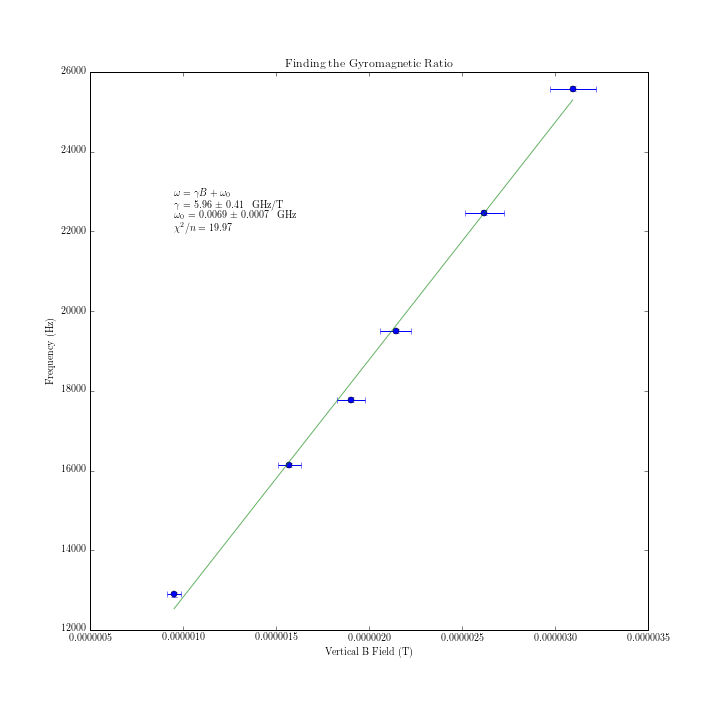
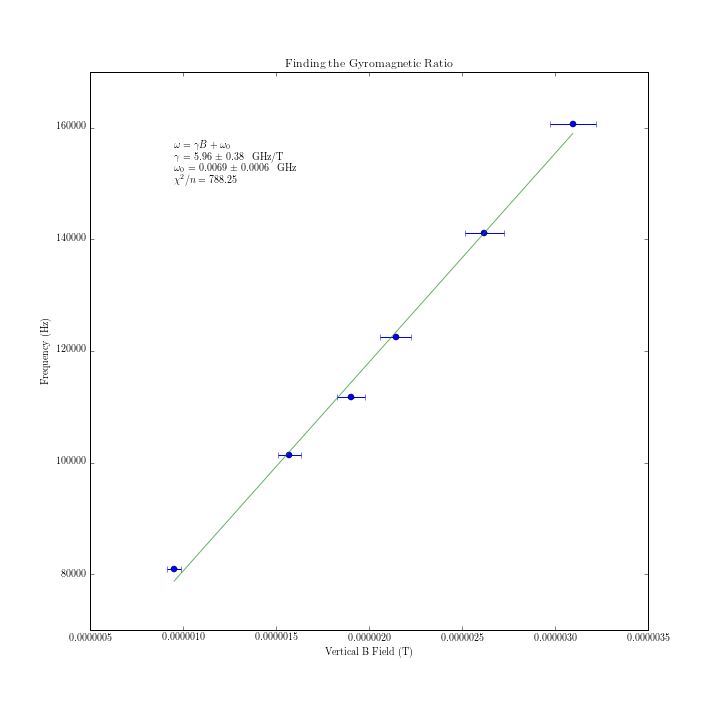
more clear now

diff --git a/Optical_Pumping/data_processing.py b/Optical_Pumping/data_processing.py
@@ -66,7 +66,7 @@ def gyromagnetic_ratio_fit():
 
     dB = np.sqrt(np.average(dI/Is)**2 + (0.5e-2/17e-2)**2) * np.ones_like(Bs) #propagate errors through, da = .5cm
 
-    freqs = (1/(2*np.pi))*np.array([data20[2], data33[2], data40[2], data45[2], data55[2], data65[2]])
+    freqs = np.array([data20[2], data33[2], data40[2], data45[2], data55[2], data65[2]])
     df = np.array([data20[1], data33[1], data40[1], data45[1], data55[1], data65[1]])
     # propagate df through previous section - larmor fit
 
@@ -115,10 +115,10 @@ def gyromagnetic_ratio_fit():
     plt.figure(figsize = (10, 10))
     plt.errorbar(Bs, freqs, xerr = Bs*dB, yerr = df, fmt = 'o')
     plt.plot(Bs, yFit, alpha = .6)
-    plt.text(Bs[0], 2.2e4, "$\omega = \gamma B + \omega_0$\n \
+    plt.text(Bs[0], 1.5e5, "$\omega = \gamma B + \omega_0$\n \
                               $\gamma$ = %.2f $\pm$ %.2f \, GHz/T\n \
                               $\omega_0$ = %.4f $\pm$ %.4f \, GHz \n \
-                              $\chi^2/n = %.2f" % ((popt[0]*1e-9), (devg*1e-9), (popt[1]*1e-6), (dev0*1e-6), chi_squared))
+                              $\chi^2/n = %.2f" % ((popt[0]*1e-9)/(2*np.pi), (devg*1e-9)/(2*np.pi), (popt[1]*1e-6)/(2*np.pi), (dev0*1e-6)/(2*np.pi), chi_squared))
     plt.xlabel("Vertical B Field (T)")
     plt.ylabel("Frequency (Hz)")
     plt.title("Finding the Gyromagnetic Ratio")
@@ -218,7 +218,7 @@ def plot_reduced_trace(dataset):
 if __name__ == '__main__':
 
     #larmor_fit("data/larmor_y0.020A.tsv", 80)
-    #gyromagnetic_ratio_fit() #DON"T RUN ANYMORE, GOT A GOOD VALUE
+    gyromagnetic_ratio_fit()
     #earth_field_fit() # need to figure out wtf - try to get some shape at least
     #plot_trace("data/s4_3_scope_trace.tsv")
     #plot_reduced_trace("data/s4_4_scope_trace.tsv")
